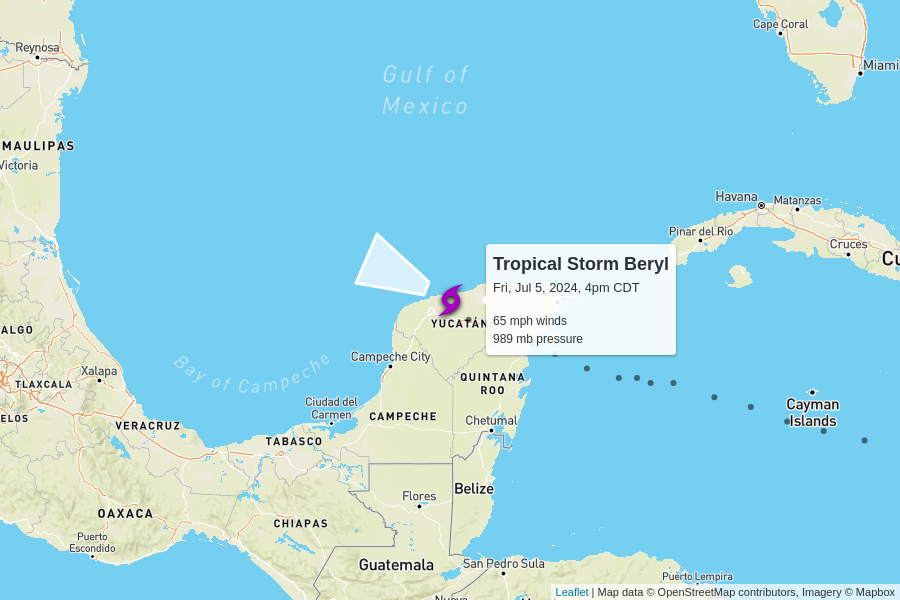
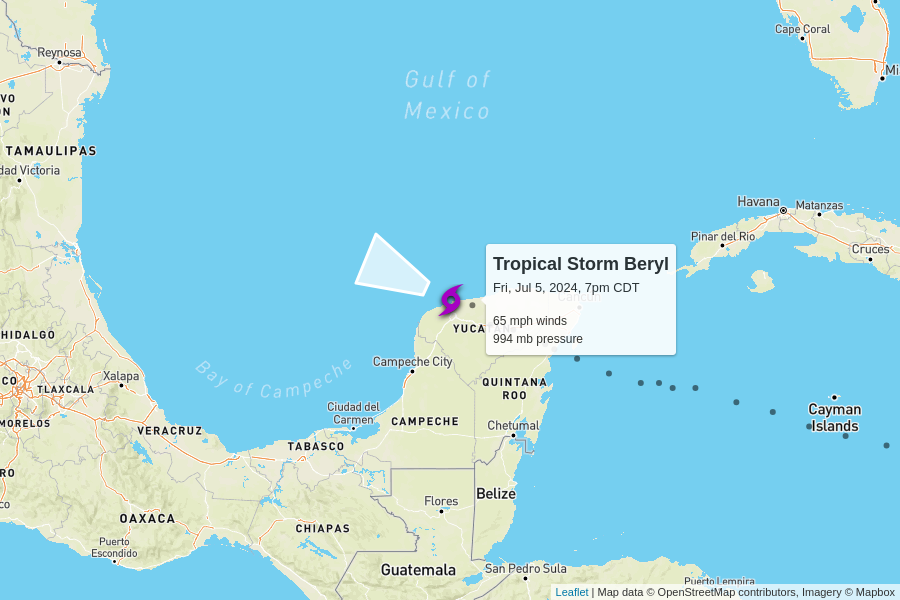
automatic update

diff --git a/docs/index.html b/docs/index.html
@@ -102,7 +102,7 @@
         <td colspan="6" class="storm category-0" >
           <h2>
             Tropical Storm Beryl
-            <p class="updated">last updated <span data-time>2024-07-05T21:00:00.000Z</span></p>
+            <p class="updated">last updated <span data-time>2024-07-06T00:00:00.000Z</span></p>
           </h2>
         </td>
       </tr>
@@ -117,8 +117,8 @@
       </tr>
       <tr>
         <td class="spacer"></td>
-        <td>65 mph<br>-5 mph since last update</td>
-        <td>989 mb<br>+3 mb since last update</td>
+        <td>65 mph<br>0 mph since last update</td>
+        <td>994 mb<br>+5 mb since last update</td>
         <td>
           15 mph to the west-northwest
           <br/>
